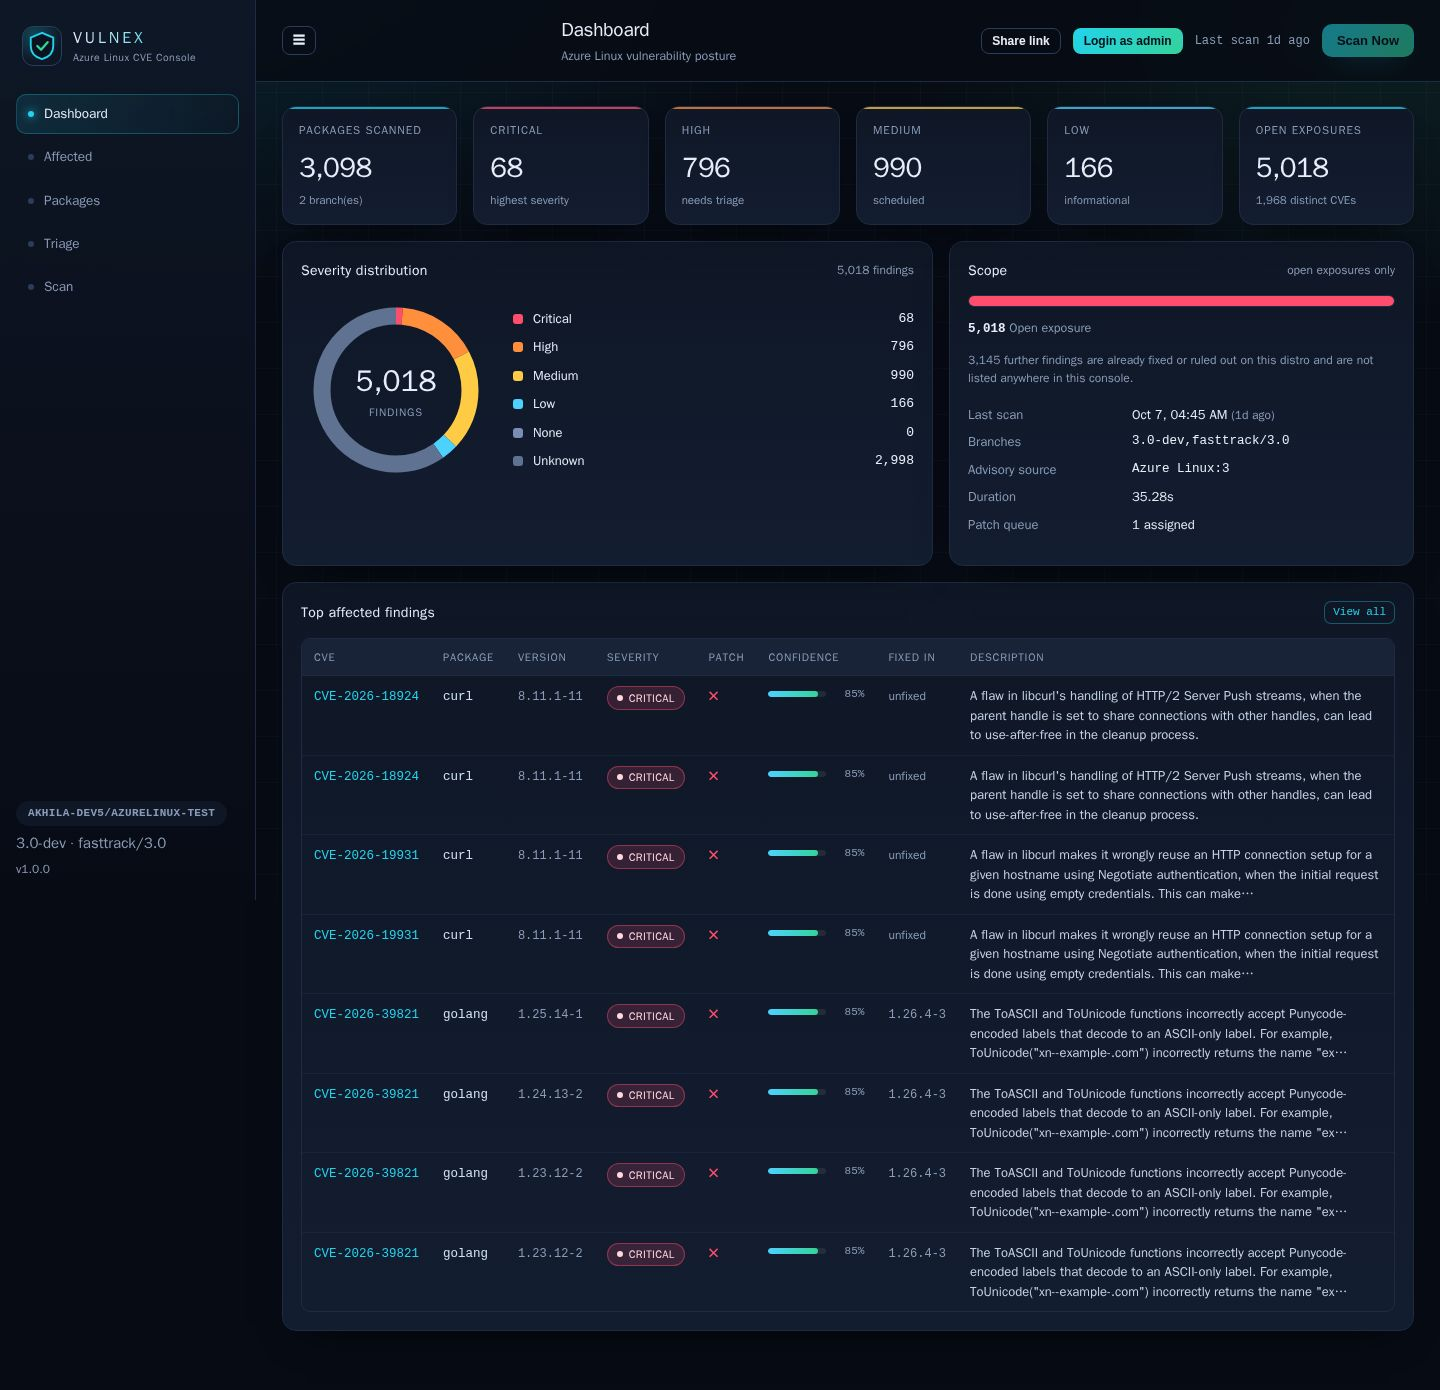
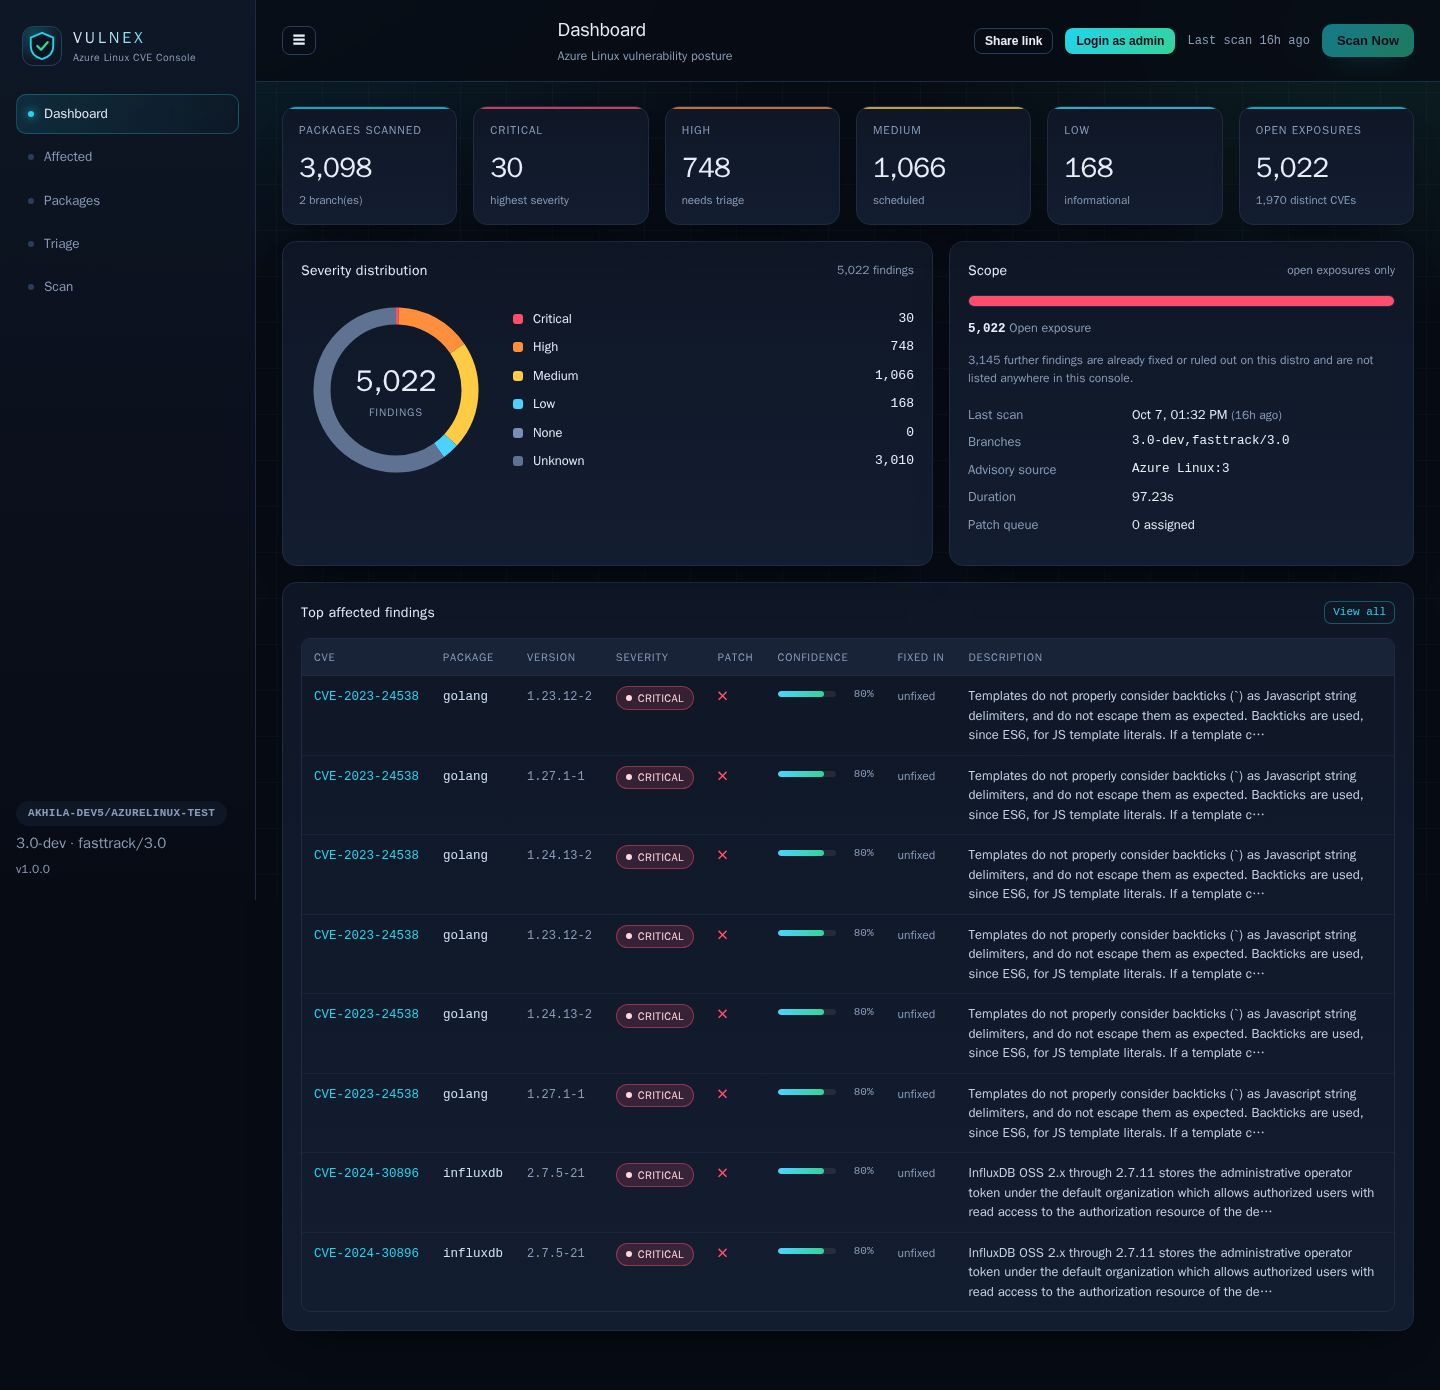
Refresh docs for the merged snapshot
The merged data/vulnex.db comes from the scheduled scan of 2026-10-07 (8,167
findings, 5,022 open exposures, 1,970 distinct CVEs), so update the README's
scan-results table and regenerate the screenshots against it.

🤖 Generated with Codebuff

diff --git a/README.md b/README.md
@@ -259,14 +259,15 @@ Current committed snapshot (`data/vulnex.db`), branches `3.0-dev` + `fasttrack/3
 | Metric | Value |
 | --- | --- |
 | Packages scanned | **3,098** (1,549 specs × 2 branches) |
-| Findings | **8,163** |
-| Distinct CVEs referenced | **3,106** |
-| Affected | 5,018 |
+| Findings in the snapshot | **8,167** |
+| **Open exposures (listed)** | **5,022** |
+| Distinct CVEs among them | **1,970** |
 | Already patched | 3,105 |
 | False positive (`.nopatch`) | 32 |
 | Unconfirmed | 8 |
+| Excluded from the console | 3,145 |
 | Patch entries parsed | 5,385 |
-| Critical / High / Medium / Low | 78 / 648 / 656 / 142 |
+| Critical / High / Medium / Low (open only) | 30 / 748 / 1,066 / 168 |
 | Cold scan time | ~2 min (warm cache ~20 s) |
 
 > Severity is populated from advisory CVSS data and then enriched from
